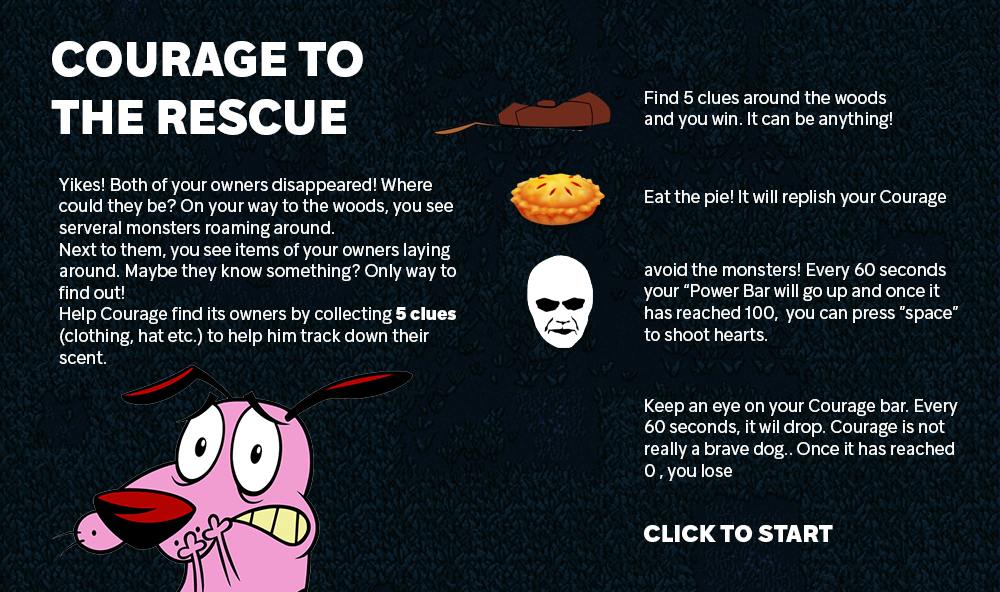
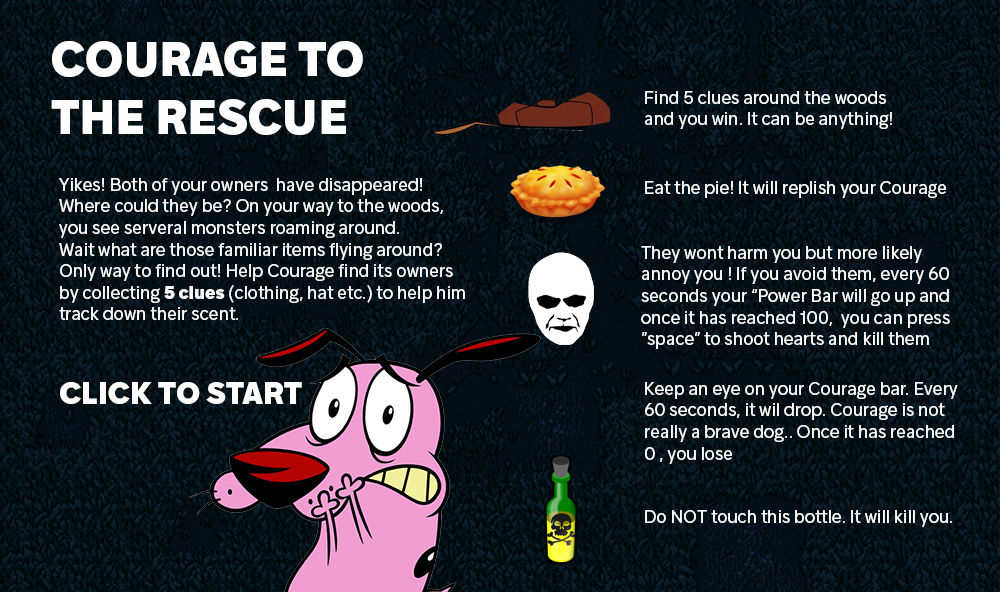
P3: Fixed the poison class and the courage bar issue. Sometimes the bar was expending once the pie was eaten or the poison was drank.

diff --git a/projects/project_3/js/Prey.js b/projects/project_3/js/Prey.js
@@ -14,7 +14,7 @@ class Prey {
     // Position
     this.x = x;
     this.y = y;
-    // Velocity and speed
+    //Velocity and speed
     this.vx = 0;
     this.vy = 0;
     this.speed = speed;
@@ -26,8 +26,9 @@ class Prey {
     this.health = this.maxHealth; // Must be AFTER defining this.maxHealth
     // Display properties
     this.radius = this.health;
-    this.scale=scale;
+    this.scale = scale;
     this.image = image; // display the baddies'images
+    this.isAlive = true; //the prey is alive right now, but i would like them to not be removed from the array once courage has shot them. Instead, I would like them to become "invisible"
   }
 
   // move()
@@ -35,17 +36,19 @@ class Prey {
   // Sets velocity based on the noise() function and the Prey's speed
   // Moves based on the resulting velocity and handles wrapping
   move() {
-    // Set velocity via noise()
-    this.vx = map(noise(this.tx), 0, 1, -this.speed, this.speed);
-    this.vy = map(noise(this.ty), 0, 1, -this.speed, this.speed);
-    // Update position
-    this.x += this.vx;
-    this.y += this.vy;
-    // Update time properties
-    this.tx += 0.01;
-    this.ty += 0.01;
-    // Handle wrapping
-    this.handleWrapping();
+    if (this.isAlive === true) {
+      // Set velocity via noise()
+      this.vx = map(noise(this.tx), 0, 1, -this.speed, this.speed);
+      this.vy = map(noise(this.ty), 0, 1, -this.speed, this.speed);
+      // Update position
+      this.x += this.vx;
+      this.y += this.vy;
+      // Update time properties
+      this.tx += 0.01;
+      this.ty += 0.01;
+      // Handle wrapping
+      this.handleWrapping();
+    }
   }
 
   // handleWrapping()
@@ -53,19 +56,20 @@ class Prey {
   // Checks if the prey has gone off the canvas and
   // wraps it to the other side if so
   handleWrapping() {
-    // Off the left or right
-    if (this.x < 0) {
-      this.x += width;
-    }
-    else if (this.x > width) {
-      this.x -= width;
-    }
-    // Off the top or bottom
-    if (this.y < 0) {
-      this.y += height;
-    }
-    else if (this.y > height) {
-      this.y -= height;
+    //if alive make them go around
+    if (this.isAlive === true) {
+      // Off the left or right
+      if (this.x < 0) {
+        this.x += width;
+      } else if (this.x > width) {
+        this.x -= width;
+      }
+      // Off the top or bottom
+      if (this.y < 0) {
+        this.y += height;
+      } else if (this.y > height) {
+        this.y -= height;
+      }
     }
   }
 
@@ -74,12 +78,15 @@ class Prey {
   // Draw the prey as an ellipse on the canvas
   // with a radius the same size as its current health.
   display() {
-    push();
-    noStroke();
-    this.radius = this.health;
-    //added scaling functionality for my image
-    image(this.image, this.x, this.y, this.image.width* this.scale , this.image.height *this.scale);
-    pop();
+    //condition where if they are alive (hasent been shot) display them
+    if (this.isAlive === true) {
+      push();
+      noStroke();
+      this.radius = this.health;
+      //added scaling functionality for my image
+      image(this.image, this.x, this.y, this.image.width * this.scale, this.image.height * this.scale);
+      pop();
+    }
   }
 
   // reset()
@@ -87,12 +94,14 @@ class Prey {
   // Set the position to a random location and reset health
   // and radius back to default
   reset() {
-    // Random position
-    this.x = random(0, width);
-    this.y = random(0, height);
-    // Default health
-    this.health = this.maxHealth;
-    // Default radius
-    this.radius = this.health;
+    if (this.isAlive === true) {
+      // Random position
+      this.x = random(0, width);
+      this.y = random(0, height);
+      // Default health
+      this.health = this.maxHealth;
+      // Default radius
+      this.radius = this.health;
+    }
   }
 }

diff --git a/projects/project_3/js/script.js b/projects/project_3/js/script.js
@@ -7,7 +7,7 @@
 //Help Courage find its owners by collecting 5 clues (clothing, hat etc.) to help him track down their scent.
 //Watch out for the monsters! If you succeed to avoid them, every minute your "Powerbar" Will go up. Once it has reached his max, you will be able to use your "heart shoot" skill pressing space key.
 //However, make sure to keep your eye on the "courage bar". Courage the is a scaredy dog and every minute the "courage bar" will drop by 10%. Once it has reached 0, you lose the game
-//Every 10 - 20 seconds, "Courage's favorite pie" will spawn at different locations! Make sure to eat it as it can bring your courage bar up to max.
+//Every 80, "Courage's favorite pie" will spawn at different locations! Make sure to eat it as it can bring your courage bar up to max.
 
 //check if game is playing, over, or winning
 let gameStart = false;
@@ -72,9 +72,9 @@ let itemCaughtSound;
 
 //Timer variable for the courage bar
 let timeBeforeCourageDrop = 0;
-let courageEnergy = 0;
+let courageEnergy = 500;
 //max courage energy
-let maxCourageEnergy = 100;
+let maxCourageEnergy = 500;
 
 //Time variable for the Power energy bar
 let timeToGrowPower = 0;
@@ -139,7 +139,7 @@ function setup() {
   createCanvas(windowWidth, windowHeight);
   //setting up our predator (Courage)
   couragePlayer = new Predator(200, 200, 10, 100, 87, 83, 65, 68, 32, 0.5, couragePlayerImage, bulletImage); //move Courage using AWSD
-  //setting our preys (baddies)
+  //setting our monsters
   catBadPerson = new Prey(200, 200, 10, 100, 0.5, catBadPersonImage);
   duckBadPerson = new Prey(300, 300, 10, 100, 0.7, duckPersonImage);
   oobhaBadPerson = new Prey(300, 300, 10, 100, 0.3, oobhaBadPersonImage);
@@ -205,13 +205,15 @@ function draw() {
     couragePlayer.handleEating(itemPie);
     couragePlayer.handleEating(itemPoison);
 
-    // //Arrays for the baddie'move, display
-    // for (let i = 0; i < badMonsters.length; i++) {
-    //   badMonsters[i].move();
-    //   badMonsters[i].display();
-    // }
+    //Arrays for the Monsters'move, display
+    for (let i = 0; i < badMonsters.length; i++) {
+      badMonsters[i].move();
+      badMonsters[i].display();
+      couragePlayer.updateBullets(badMonsters[i]);
+    }
+
     //Once the special skill has been activated, Courage will be able to shoot the monsters
-    couragePlayer.updateBullets(badMonsters);
+    //couragePlayer.updateBullets(badMonsters);
 
     //Arrays for the clues. The clues will move and display. Courage will be able to collect clues and have "the clues found" score updated at the top.
     for (let i = 0; i < cluesFind.length; i++) {
@@ -267,11 +269,14 @@ function timeCounter() {
 //CourageBar()
 //Draw a Courage Bar. It shows how much the Player dog has courage left
 function CourageBar() {
-  let courageBarFill = map(courageEnergy, 0, 100, 0, 100);
+//  let courageBarFill = map(courageEnergy, 0, 100, 0, 100);
+  let courageBarFill = 500-courageEnergy;
+  courageBarFill = constrain(courageBarFill,0,500);
+  console.log("courageBarfill:: "+courageBarFill);
   fill(255, 160, 136);
   rect(1400, 200, 40, 500);
   fill(240, 248, 255);
-  rect(1400, 200, 40, 0 - courageBarFill);
+  rect(1400, 200, 40, courageBarFill);
 }
 
 //PowerBar()
@@ -307,8 +312,6 @@ function mousePressed() {
     //  mainMusic.loop();
   }
 }
-
-
 
 //resetGame()
 //reset the game including its elements

diff --git a/projects/project_3/js/Predator.js b/projects/project_3/js/Predator.js
@@ -97,7 +97,7 @@ class Predator {
   // Check if they hit the other dog and update its size
   // Note that in this simple version we never actually delete bulletHeart from the
   // array. For that we'd need to use either pop() or splice().
-  updateBullets(badMonsters) {
+  updateBullets(badMonster) {
     // Go through all the bulletHeart of this dog
     // (Note this is hugely inefficient since it still looks at bulletHeart that were fired long ago,
     // we should really remove those from the array!)
@@ -111,12 +111,14 @@ class Predator {
       bullet.y += bullet.vy;
       // Check if this bullet overlaps
 
-      if (bullet.x > badMonsters.x - badMonsters.image.width / 2 && bullet.x < badMonsters.x + badMonsters.image.width / 2) {
-        if (bullet.y > badMonsters.y - badMonsters.image.height / 2 && bullet.y < badMonsters.y + badMonsters.image.height / 2) {
+      if (bullet.x > badMonster.x - badMonster.image.width / 2 && bullet.x < badMonster.x + badMonster.image.width / 2) {
+        if (bullet.y > badMonster.y - badMonster.image.height / 2 && bullet.y < badMonster.y + badMonster.image.height / 2) {
           // If so, make the other dog grow (constrained)
           //badMonsters.scale += badMonsters.growPerBullet;
           // badMonsters.scale = constrain(badMonsters.scale, badMonsters.minSize, badMonsters.maxSize);
           console.log("hit");
+          badMonster.isAlive =false;
+
         }
       }
     }
@@ -214,7 +216,6 @@ class Predator {
       push();
       image(this.bulletImage, this.bulletHeart[i].x, this.bulletHeart[i].y, 50, 50);
       pop();
-
     }
   }
 

diff --git a/projects/project_3/js/Poison.js b/projects/project_3/js/Poison.js
@@ -1,5 +1,5 @@
 //Courage's most hated item: Poison
-//Once drank this poison  will raise will bring your Courage to the max
+//Once the poison has been drank this poison will kill you and result a gameover
 
 class Poison extends Items {
   // constructor
@@ -11,19 +11,17 @@ class Poison extends Items {
     this.isEaten = false; //the poison is not drank yet
     this.timer = 0;
     this.startTime = 0;
-    this.courageEnergy = false;
   }
 
   // once the user has drank the poison , the courage bar will instantly drop and make a game over
   DropCourage(dog) {
-    // console.log("RaiseCourage")
     let d = dist(this.x, this.y, dog.x, dog.y);
     //  console.log(d);
     // check if the player and gadget overlaps
-    if (d < (this.image.width * this.scale) && this.isEaten === false && this.courageEnergy === false) {
+    if (d < (this.image.width * this.scale) && this.isEaten === false) {
       //The courage energy will drop at 0 and make a game over
       this.isEaten = true; //the poison has been drank!
-      this.courageEnergy = 0; //drops the courage bar completely
+      courageEnergy = 0; //drops the courage bar completely
       console.log("Drop that hp bar")
       this.startTime = millis(); //starts the counter of 10 sec
       console.log("That annoying Poison")

diff --git a/projects/project_3/js/Clues.js b/projects/project_3/js/Clues.js
@@ -5,7 +5,6 @@
 // the screen and be consumed by Predator objects.
 
 class Clues {
-
   // constructor
   //
   // Sets the initial values for the Predator's properties
@@ -72,7 +71,7 @@ class Clues {
 
   // display()
   //
-  // Draw the prey as an ellipse on the canvas
+  // Draw the prey as clues
   // with a radius the same size as its current health.
   display() {
     push();

diff --git a/projects/project_3/js/Pie.js b/projects/project_3/js/Pie.js
@@ -27,6 +27,5 @@ class Pie extends Items {
     //  console.log("coll")
       this.timer = 0;
     }
-
   }
 }
